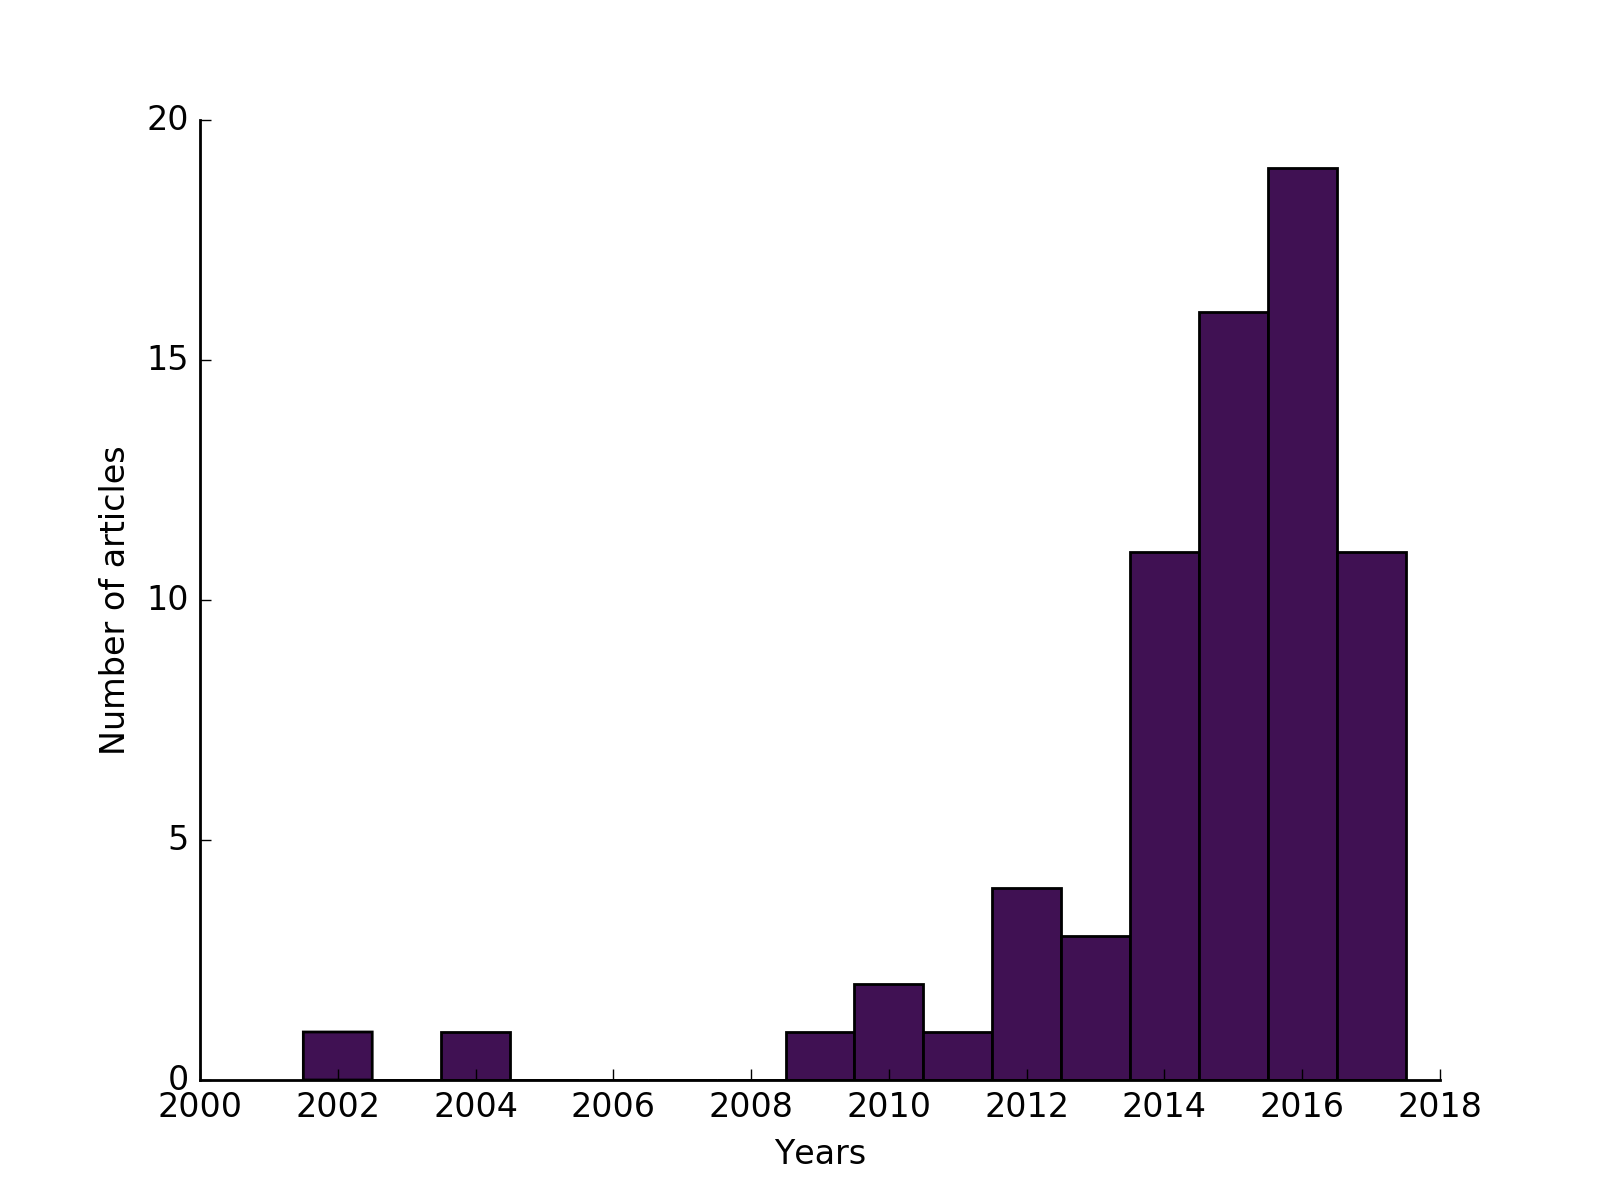
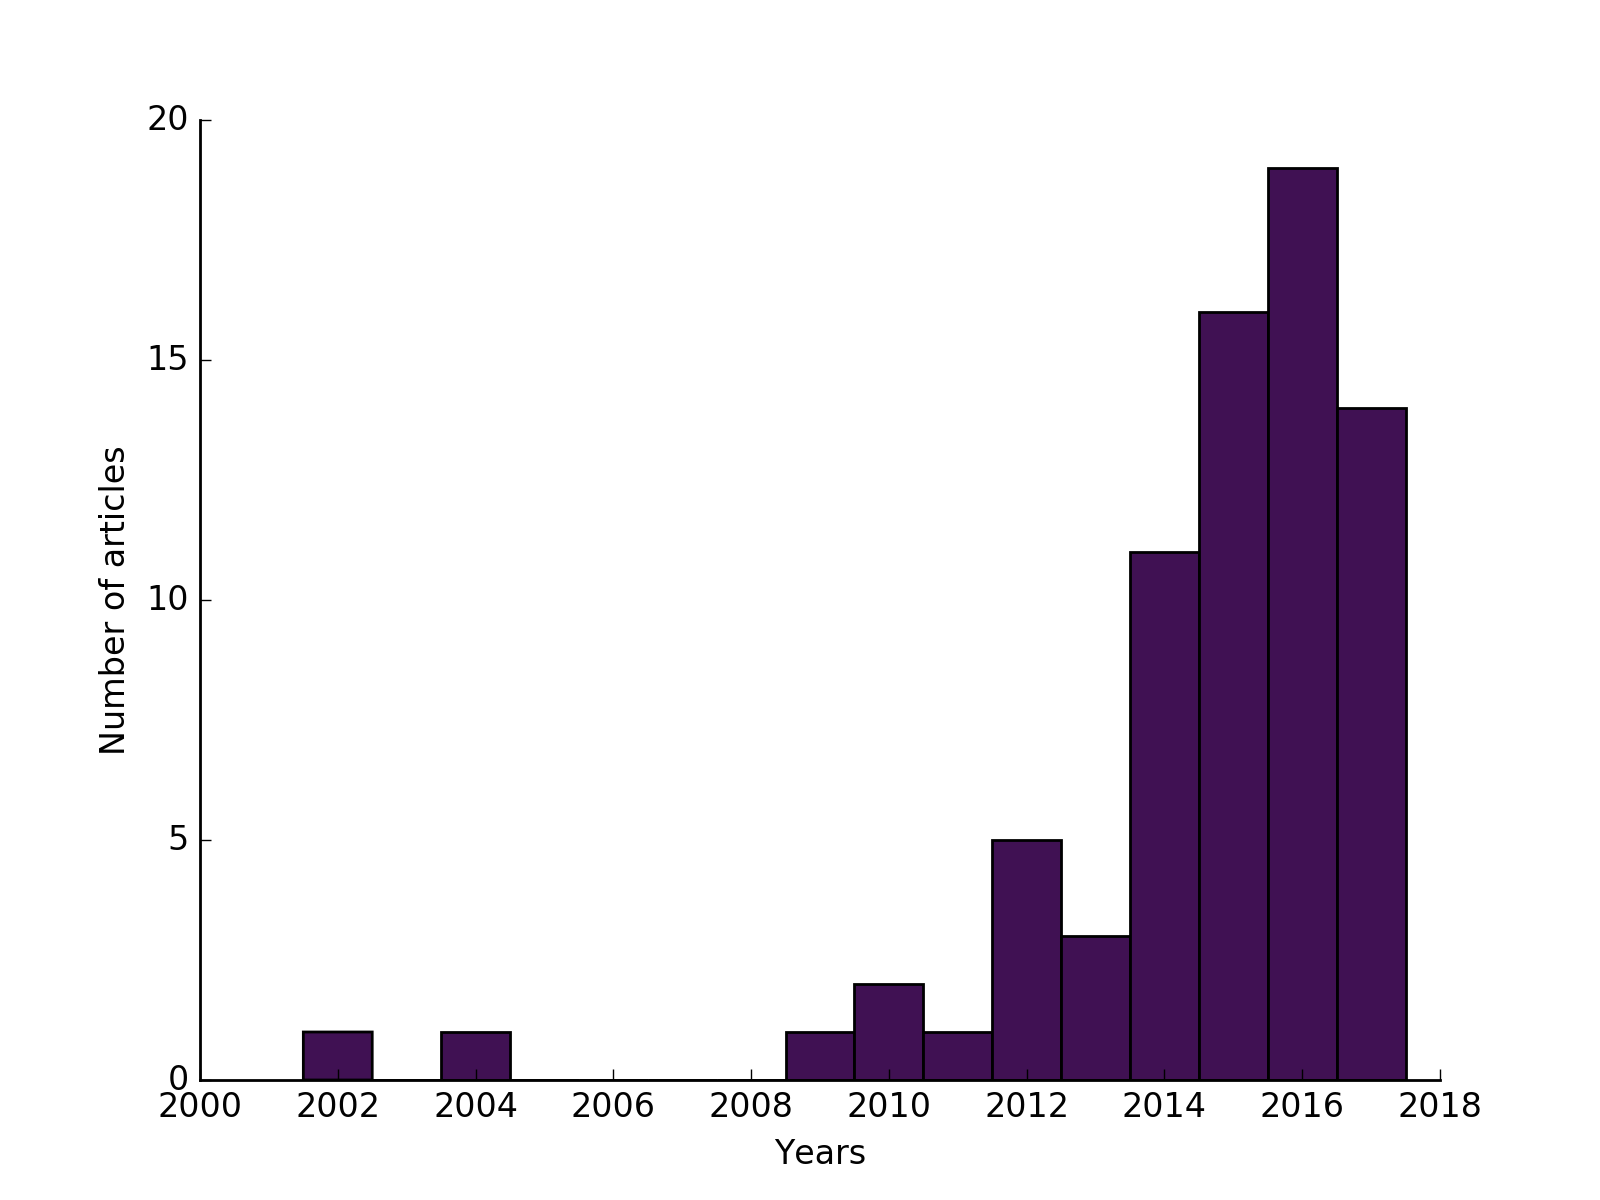
Added 4 articles

Changed region(s): [[0.8125, 0.3392, 0.9062, 0.4625], [0.5938, 0.6783, 0.6875, 0.74]]

diff --git a/dl4m.py b/dl4m.py
@@ -57,7 +57,7 @@ def articles_per_year(filen="dl4m.tsv"):
     input: file name storing articles details
     """
     years = []
-    with open(filen, "r") as filep:
+    with open(filen, "r", encoding="utf-8") as filep:
         next(filep)
         for line in filep:
             years.append(int(line.split("\t")[2]))
@@ -79,7 +79,7 @@ def main(filen="dl4m.tsv"):
     Main entry point
     input: file name storing articles details
     """
-    # generate_summary_table(filen)
+    generate_summary_table(filen)
     articles_per_year(filen)
 
 

diff --git a/README.md b/README.md
@@ -20,12 +20,15 @@ The list is currently under construction but feel free to contribute to the miss
 
 | Article | Code |
 |---------------------|-------------------------|
+| [Transfer learning for music classification and regression tasks](https://arxiv.org/pdf/1703.09179v3.pdf) | [GitHub](https://arxiv.org/pdf/1703.09179v3.pdf) |
 | [Convolutional recurrent neural networks for music classification](http://ieeexplore.ieee.org/abstract/document/7952585/) | [GitHub](http://ieeexplore.ieee.org/abstract/document/7952585/) |
 | [An evaluation of convolutional neural networks for music classification using spectrograms](http://www.inf.ufpr.br/lesoliveira/download/ASOC2017.pdf) | No |
 | [Deep convolutional neural networks for predominant instrument recognition in polyphonic music](http://dl.acm.org/citation.cfm?id=3068697) | No |
+| [CNN architectures for large-scale audio classification](https://arxiv.org/pdf/1609.09430v2.pdf) | No |
 | [End-to-end musical key estimation using a convolutional neural network](https://arxiv.org/pdf/1706.02921.pdf) | |
+| [Sample-level deep convolutional neural networks for music auto-tagging using raw waveforms](https://arxiv.org/pdf/1703.01789v2.pdf) | |
 | [Multi-level and multi-scale feature aggregation using sample-level deep convolutional neural networks for music classification](https://arxiv.org/pdf/1706.06810.pdf) | |
-| [Melody extraction and detection through lstm-rnn with harmonic sum loss](http://ieeexplore.ieee.org/abstract/document/7952660/) | |
+| [Melody extraction and detection through LSTM-RNN with harmonic sum loss](http://ieeexplore.ieee.org/abstract/document/7952660/) | |
 | [Timbre analysis of music audio signals with convolutional neural networks](https://arxiv.org/pdf/1703.06697.pdf) | [GitHub](https://arxiv.org/pdf/1703.06697.pdf) |
 | [Designing efficient architectures for modeling temporal features with convolutional neural networks](http://ieeexplore.ieee.org/document/7952601/) | [GitHub](http://ieeexplore.ieee.org/document/7952601/) |
 | [Music feature maps with convolutional neural networks for music genre classification](https://www.micc.unifi.it/cbmi2017/session/poster-and-demo-session/) | No |
@@ -45,11 +48,11 @@ The list is currently under construction but feel free to contribute to the miss
 | [Deep convolutional networks on the pitch spiral for musical instrument recognition](https://github.com/lostanlen/ismir2016/blob/master/paper/lostanlen_ismir2016.pdf) | |
 | [Robust audio event recognition with 1-max pooling convolutional neural networks](https://arxiv.org/pdf/1604.06338.pdf) | No |
 | [Singing voice melody transcription using deep neural networks](https://wp.nyu.edu/ismir2016/wp-content/uploads/sites/2294/2016/07/163_Paper.pdf) | |
+| [Learning to pinpoint singing voice from weakly labeled examples](http://www.ofai.at/~jan.schlueter/pubs/2016_ismir.pdf) | |
 | [Note onset detection in musical signals via neural–network–based multi–odf fusion](https://www.degruyter.com/downloadpdf/j/amcs.2016.26.issue-1/amcs-2016-0014/amcs-2016-0014.pdf) | No |
 | [Convolutional neural network for robust pitch determination](http://www.mirlab.org/conference_papers/International_Conference/ICASSP%202016/pdfs/0000579.pdf) | |
 | [Deep convolutional neural networks and data augmentation for acoustic event detection](https://arxiv.org/pdf/1604.07160.pdf) | No |
 | [Unsupervised feature learning based on deep models for environmental audio tagging](https://arxiv.org/pdf/1607.03681.pdf) | |
-| [Learning to pinpoint singing voice from weakly labeled examples](http://www.ofai.at/~jan.schlueter/pubs/2016_ismir.pdf) | |
 | [Auralisation of deep convolutional neural networks: listening to learned features](http://ismir2015.uma.es/LBD/LBD24.pdf) | |
 | [Downbeat tracking with multiple features and deep neural networks](http://perso.telecom-paristech.fr/~grichard/Publications/2015-durand-icassp.pdf) | |
 | [Music boundary detection using neural networks on spectrograms and self-similarity lag matrices](http://www.ofai.at/~jan.schlueter/pubs/2015_eusipco.pdf) | |
@@ -83,6 +86,7 @@ The list is currently under construction but feel free to contribute to the miss
 | [Rethinking automatic chord recognition with convolutional neural networks](http://ieeexplore.ieee.org/document/6406762/) | |
 | [Moving beyond feature design: deep architectures and automatic feature learning in music informatics](http://citeseerx.ist.psu.edu/viewdoc/download?doi=10.1.1.294.2304&rep=rep1&type=pdf) | |
 | [Local-feature-map integration using convolutional neural networks for music genre classification.](http://liris.cnrs.fr/Documents/Liris-5602.pdf) | |
+| [Learning sparse feature representations for music annotation and retrieval](https://pdfs.semanticscholar.org/099d/85f25e9336f48ff64287a4b53ee5fb64ab51.pdf) | No |
 | [Unsupervised learning of local features for music classification.](http://www.ismir2012.ismir.net/event/papers/139_ISMIR_2012.pdf) | |
 | [Audio-based music classification with a pretrained convolutional network](http://www.ismir2011.ismir.net/papers/PS6-3.pdf) | |
 | [Automatic musical pattern feature extraction using convolutional neural network](https://www.researchgate.net/profile/Antoni_Chan2/publication/44260643_Automatic_Musical_Pattern_Feature_Extraction_Using_Convolutional_Neural_Network/links/02e7e523dac6bb86b0000000.pdf) | |
